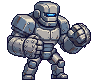
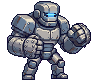
set 223: HL-1 eye line keeps the original glow pulse (3 levels per frame: dim/mid/bright + bloom)

Changed region(s): [[0.4375, 0.1235, 0.625, 0.2469]]

diff --git a/claude/preview-set217/s223-eyeline.py b/claude/preview-set217/s223-eyeline.py
@@ -12,7 +12,7 @@ def fill(a,m):  # replace masked pixels with the median-luminance unmasked 8-nei
       if len(ns)>=3: ns=np.array(ns);a[y,x,:3]=ns[np.argsort(ns.sum(1))[len(ns)//2]];nm[y,x]=False
     m=nm
   return a
-def eye(a,W,B):
+def eye(a,W,B,L=0):  # L = glow pulse level 0 dim / 1 mid / 2 bright, from the original frame
   r,g,b=a[...,0],a[...,1],a[...,2];reg=np.zeros(r.shape,bool);reg[8:23,40:64]=True;reg&=a[...,3]>0
   glow=reg&(b-r>40)&(b>90);hot=reg&(b-r>60)&(b>150)
   y0=int(np.argmax(hot.sum(1)));c=int(round(np.nonzero(hot)[1].mean()))
@@ -20,8 +20,21 @@ def eye(a,W,B):
   dark=np.array([20,18,52]);a=fill(a,glow)
   for x in range(x0-1,x1+2): a[y0-1,x,:3]=dark;a[y0+2,x,:3]=dark  # visor slot above/below
   a[y0,x0-1,:3]=dark;a[y0,x1+1,:3]=dark;a[y0+1,x0-1:x0+1,:3]=dark;a[y0+1,x1:x1+2,:3]=dark
-  for x in range(x0,x1+1): a[y0,x,:3]=W if x0+2<=x<=x1-2 else B
-  for x in range(x0+1,x1): a[y0+1,x,:3]=B
+  wi=[3,1,0][L]  # dim = 2 px white, mid = 6, bright = full 8
+  for x in range(x0,x1+1): a[y0,x,:3]=W if x0+wi<=x<=x1-wi else B
+  M=(np.array(W)+np.array(B))//2
+  for x in range(x0+1,x1): a[y0+1,x,:3]=M if (L==2 and x0+1<=x<=x1-1) else B
+  if L>=1:  # flash: light spills into the dark slot rows
+    H=np.array([[40,95,170],[70,160,235]][L-1])
+    for x in range(x0+1,x1): a[y0-1,x,:3]=H
+    if L==2:
+      for x in range(x0+1,x1): a[y0+2,x,:3]=H
+      a[y0,x0-1,:3]=B;a[y0,x1+1,:3]=B
+      for y in range(y0-3,y0+5):  # soft blue bloom on the metal around the visor
+        for x in range(x0-3,x1+4):
+          p=a[y,x,:3]
+          if a[y,x,3] and p.sum()>200 and not (p[2]-p[0]>60):
+            a[y,x,:3]=(p*0.7+np.array([120,200,255])*0.3).astype(int)
   return a
 def sparks(a,W):
   H,Wd=a.shape[:2];isO=lambda y,x: a[y,x,3]>0 and tuple(a[y,x,:3])==O
@@ -40,4 +53,6 @@ if __name__=='__main__':
   W=ref[15,50,:3].copy();B=ref[16,52,:3].copy();print('W',W,'B',B)
   for n in range(8):
     a=np.array(Image.open(f'{i}/idle_{n}.png').convert('RGBA')).astype(int)
-    a=sparks(eye(a,W,B),W);Image.fromarray(a.astype(np.uint8)).save(f'{o}/idle_{n}.png')
+    sub=a[8:23,40:64];hw=((sub[...,2]-sub[...,0]>60)&(sub[...,2]>150)&(sub[...,1]>200)).sum()
+    L=0 if hw<=5 else 1 if hw<=10 else 2;print(n,'white',hw,'level',L)
+    a=sparks(eye(a,W,B,L),W);Image.fromarray(a.astype(np.uint8)).save(f'{o}/idle_{n}.png')
